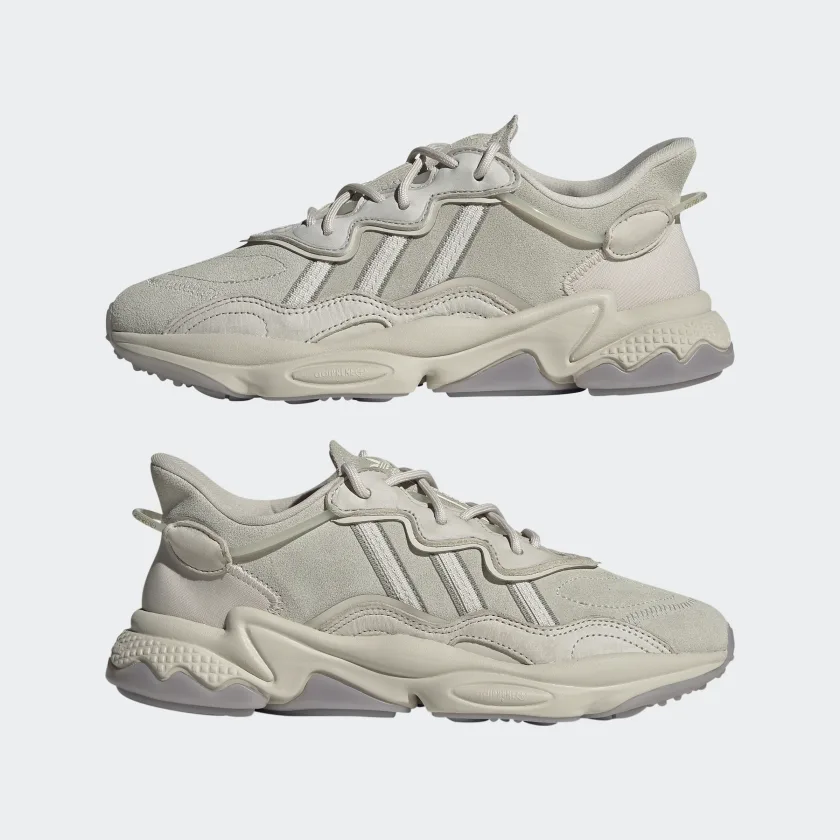
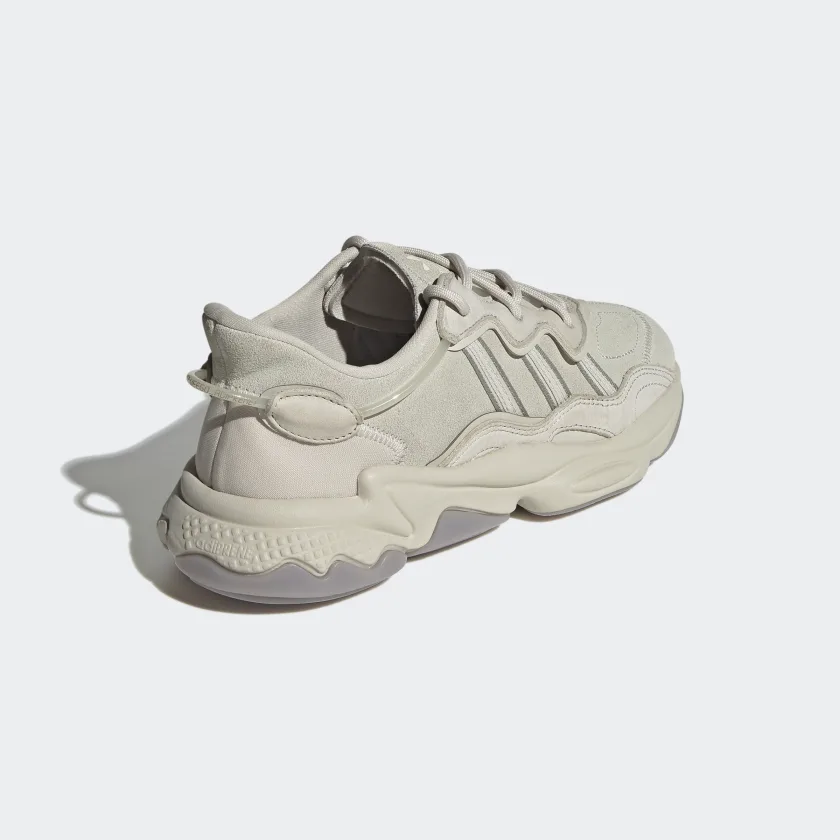
added 2 more images to display

diff --git a/src/pages/sneakersImagesData.js b/src/pages/sneakersImagesData.js
@@ -5,4 +5,6 @@ export const sneakersImagesArr = [
   '/assets/sneakers/ozweego-img4.webp',
   '/assets/sneakers/ozweego-img5.webp',
   '/assets/sneakers/ozweego-img6.webp',
+  '/assets/sneakers/ozweego-img7.jpeg',
+  '/assets/sneakers/ozweego-img8.webp',
 ];
